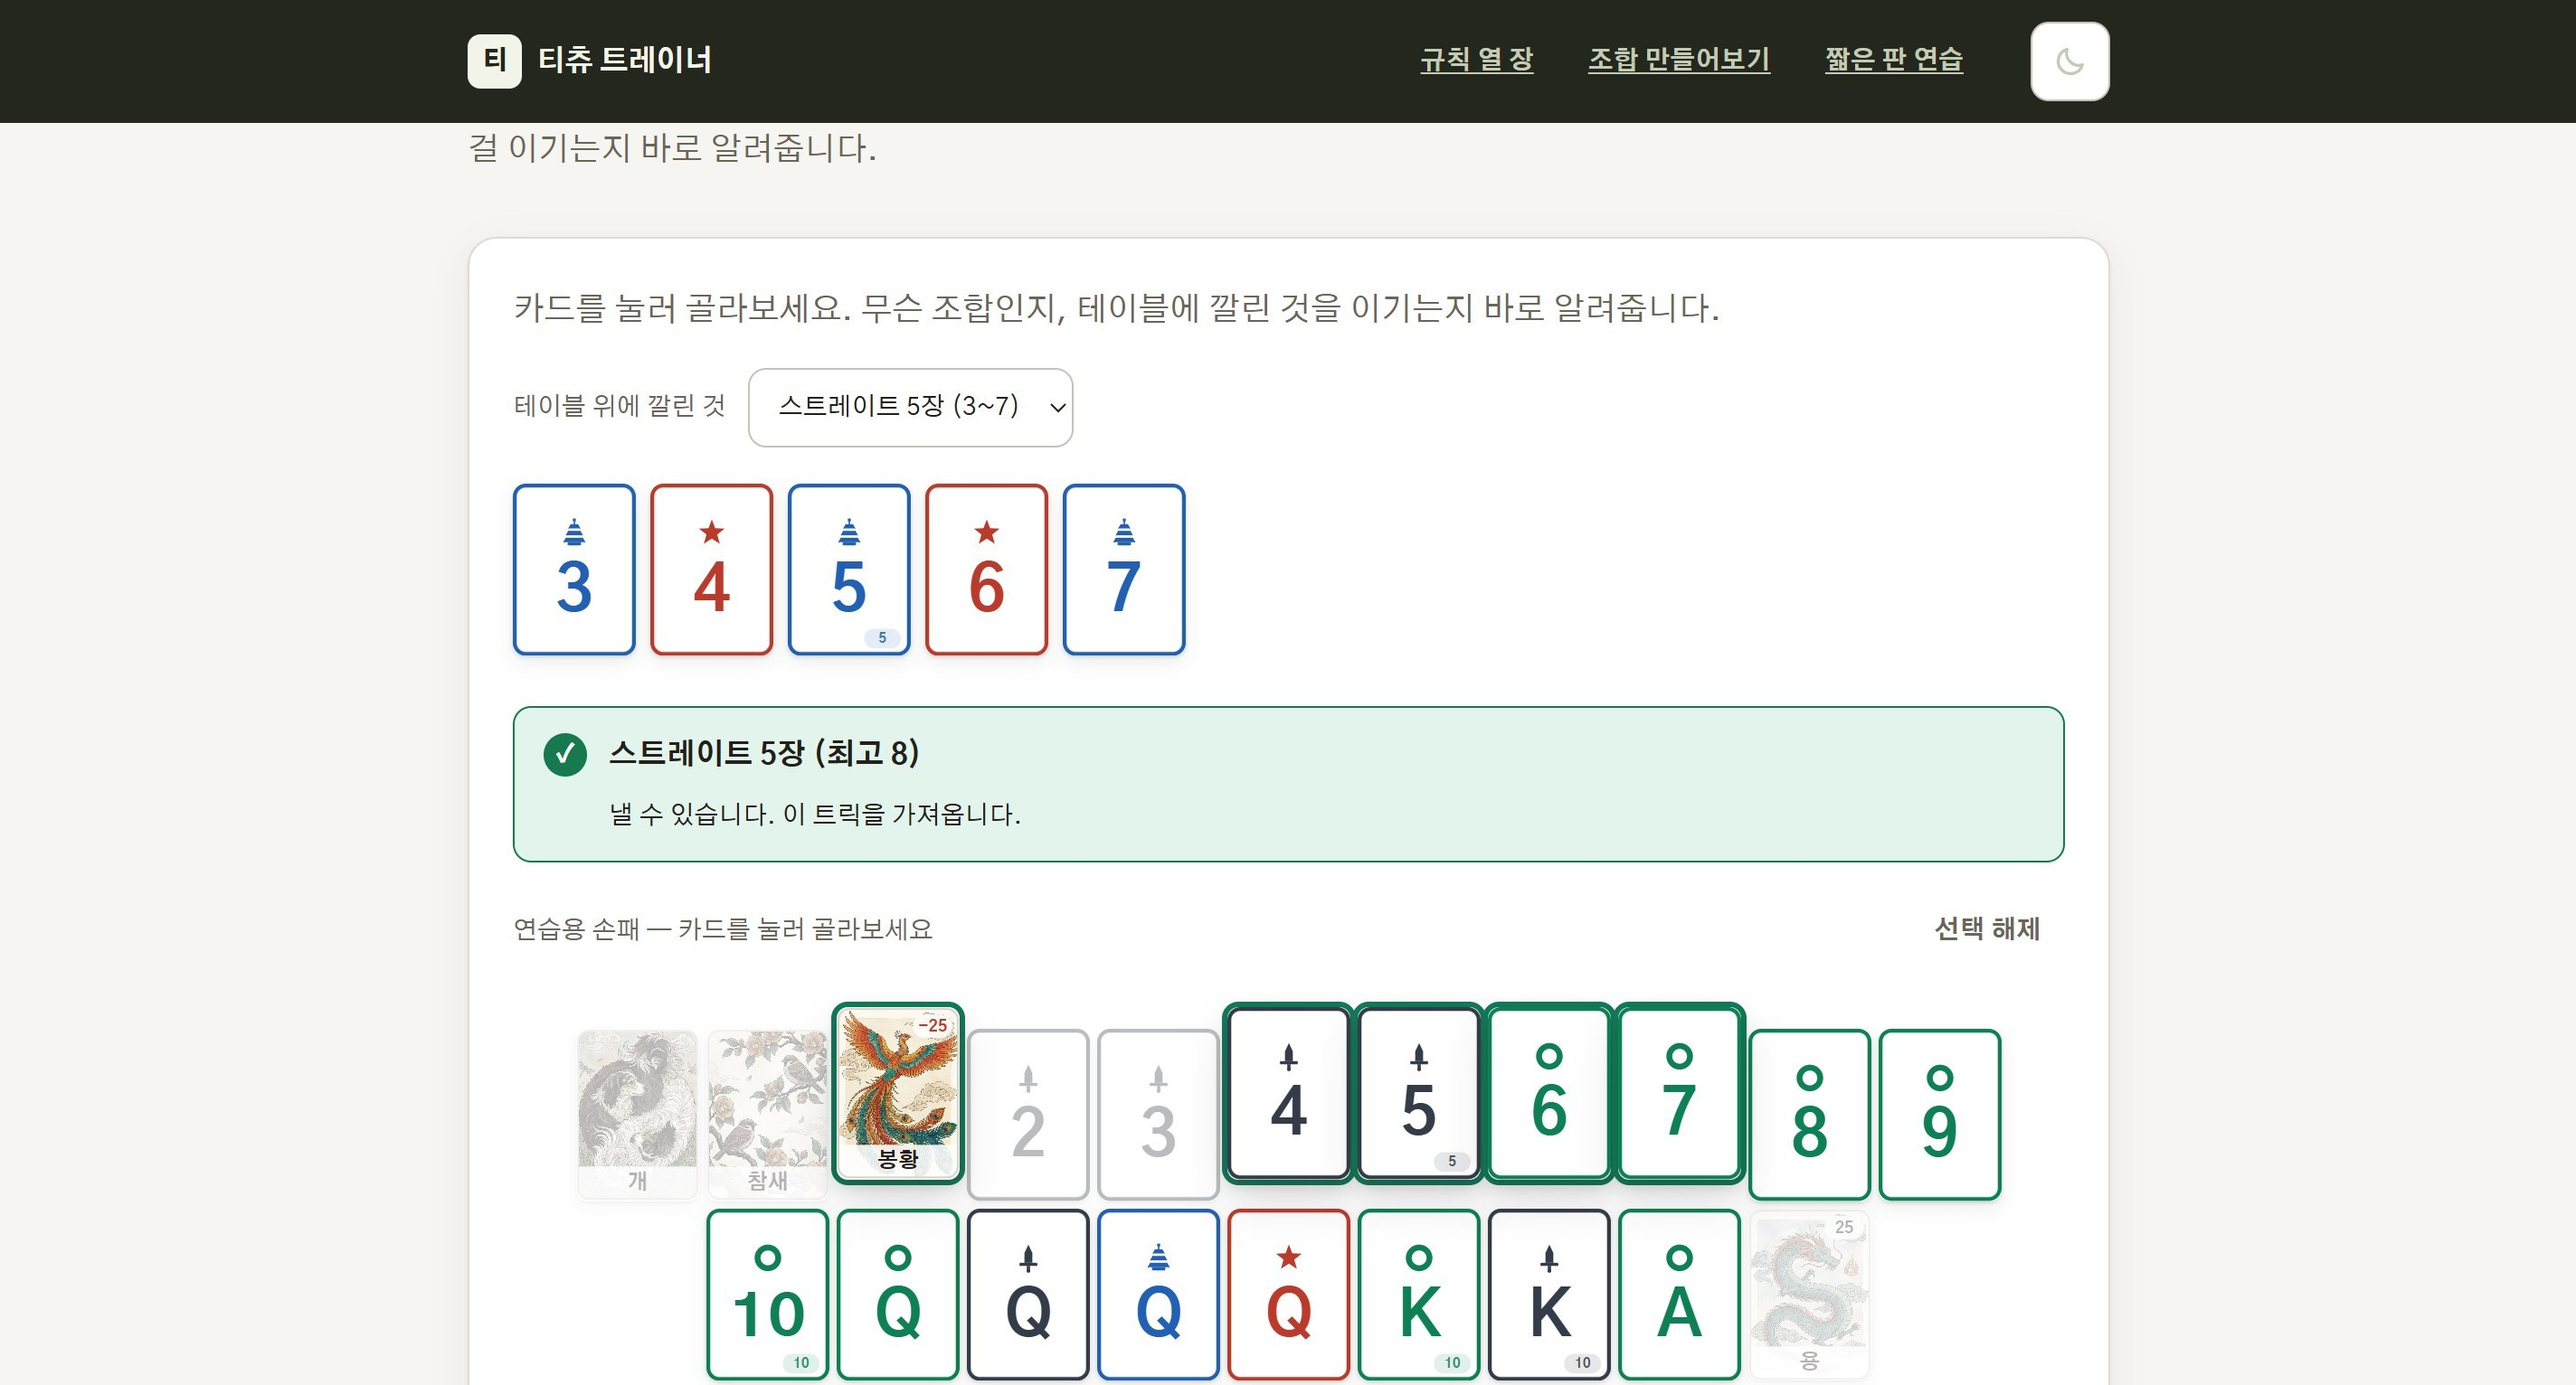
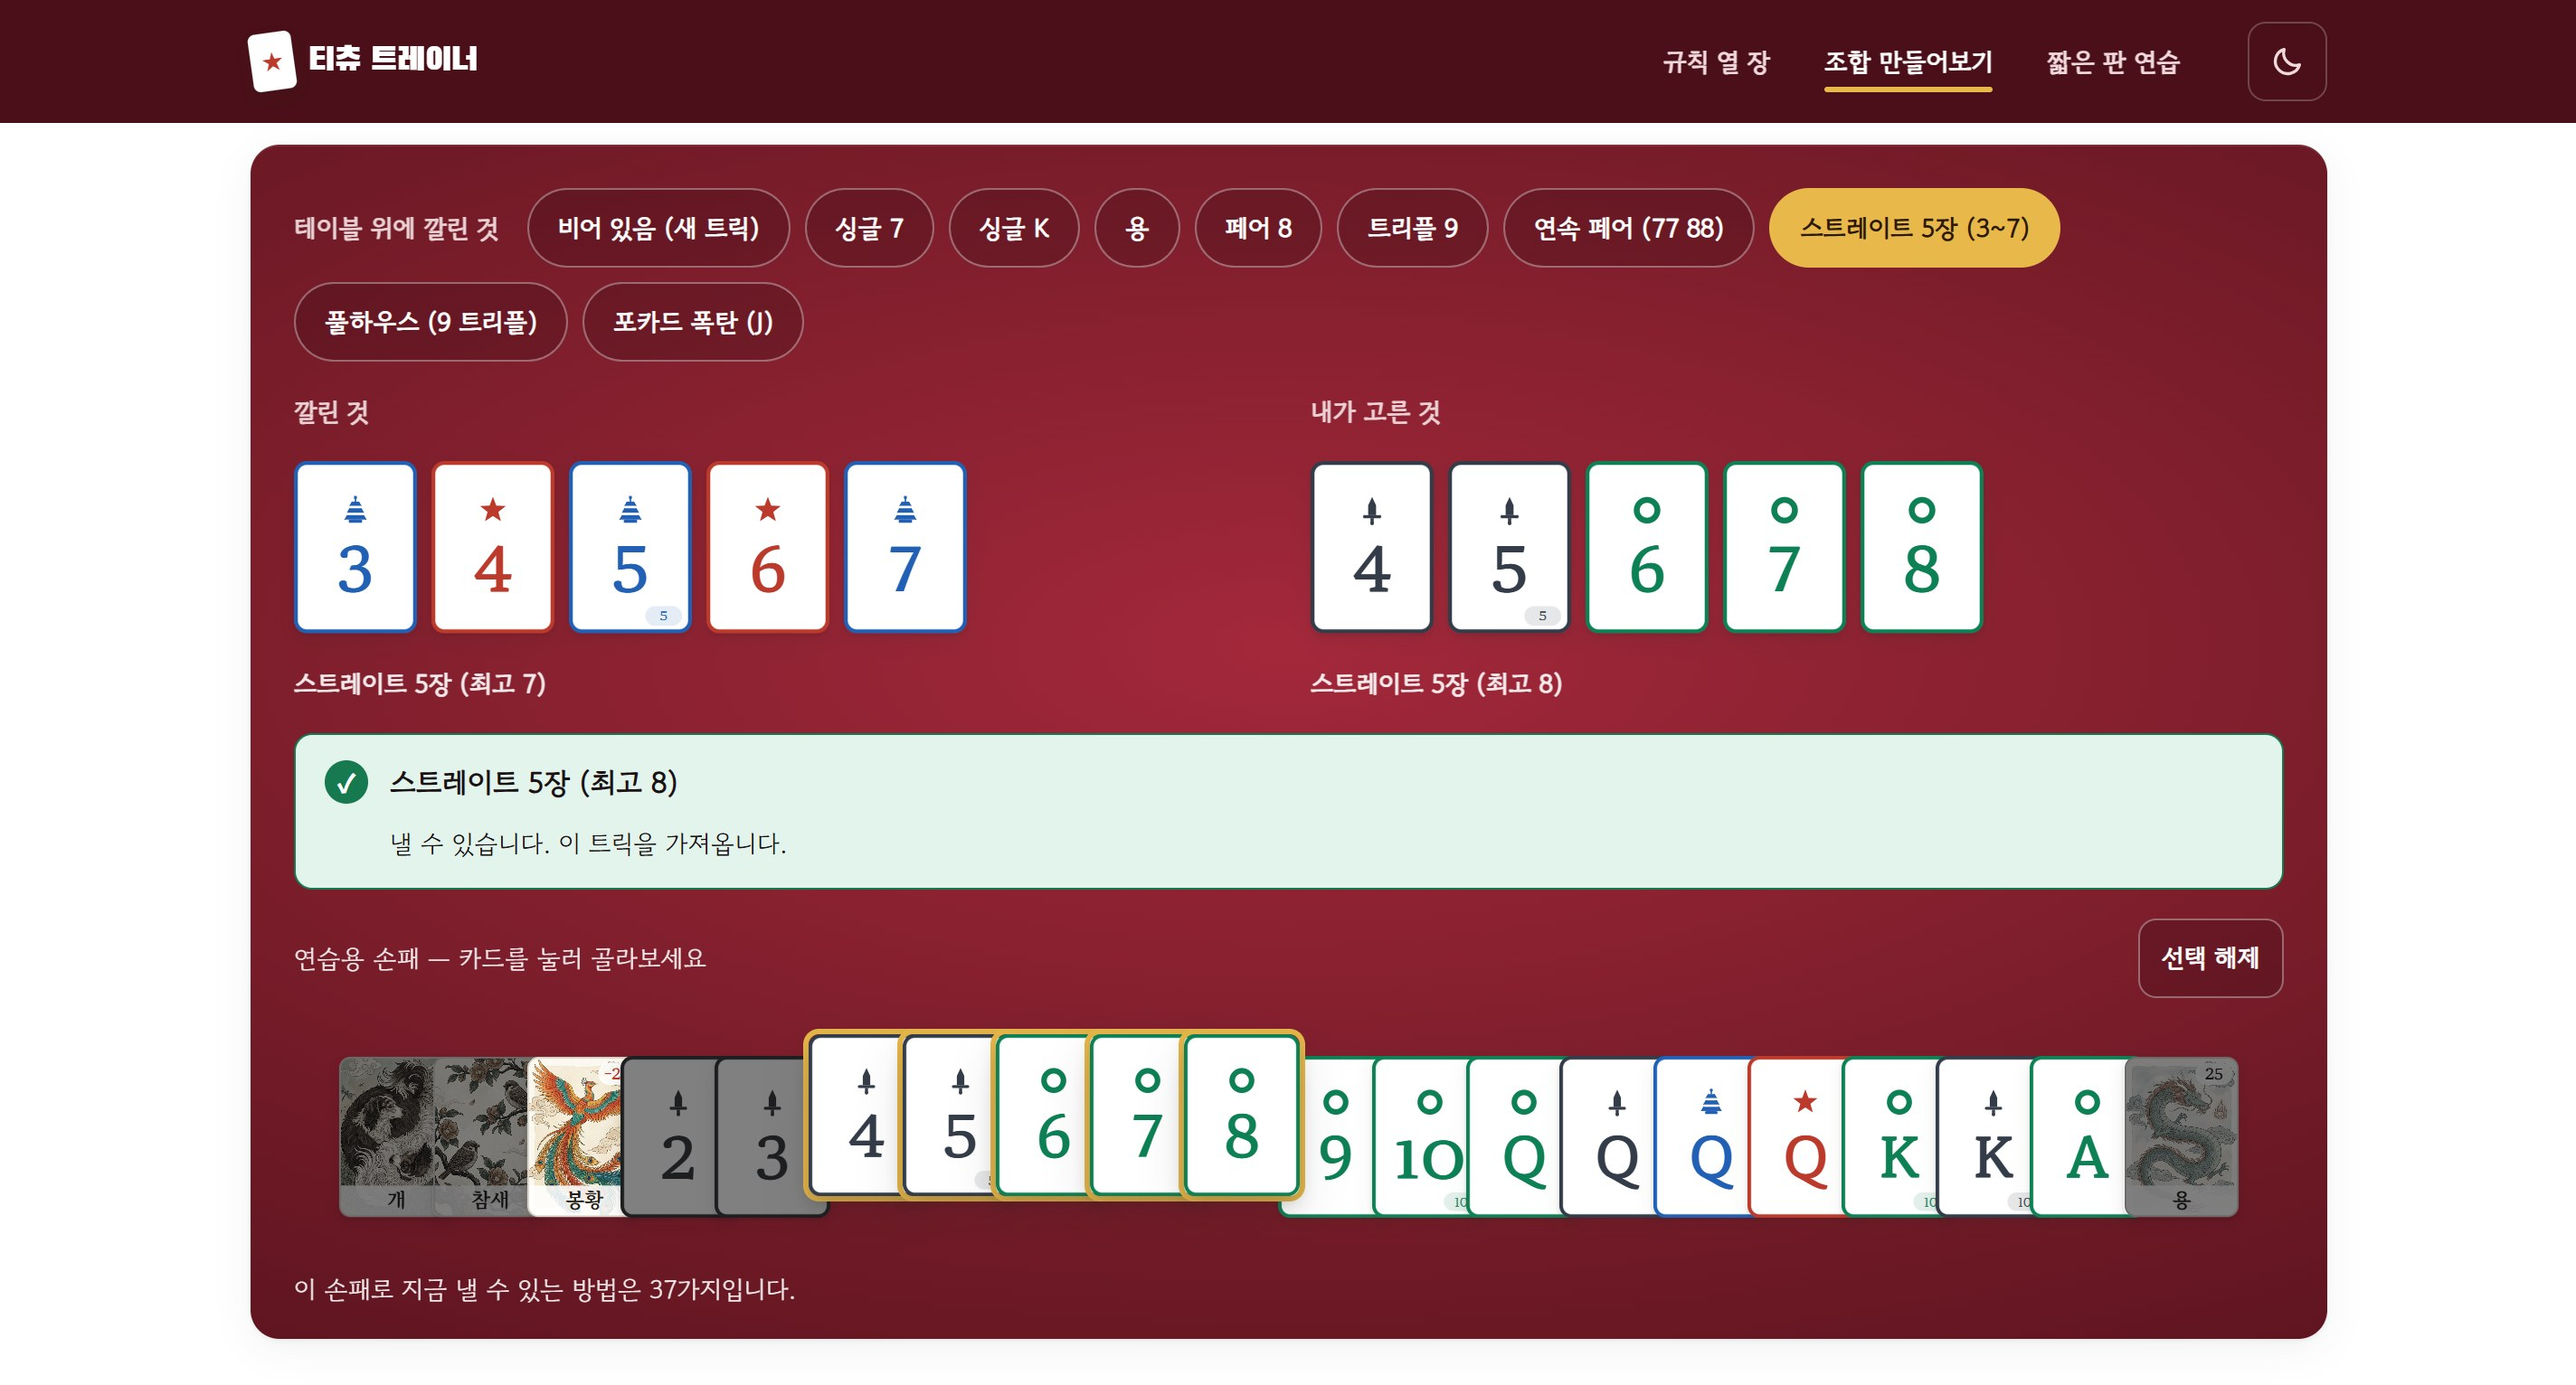
개인 작업 카드 갱신: tichu-trainer 새 화면, 판정·화면 분리를 앞세운 문구, 커밋·테스트 수 재집계

diff --git a/src/config.ts b/src/config.ts
@@ -97,19 +97,19 @@ export const siteConfig = {
   sideProjects: [
     {
       name: "tichu-trainer",
-      description: "보드게임 티츄의 규칙을 직접 카드를 내 보며 익히는 학습 웹입니다. 커밋 33건 모두 제 것입니다.",
+      description: "보드게임 티츄의 규칙을 직접 카드를 내 보며 익히는 학습 웹입니다. 커밋 46건(머지 제외) 모두 제 것입니다.",
       link: "https://github.com/DreamingGenie/tichu-trainer",
       image: "/images/projects/tichu-trainer/sandbox.jpg",
       points: [
-        "외부 라이브러리 없이 테스트 도구까지 직접 만들어, node tests/run.js 한 줄로 84개 테스트가 돕니다",
-        "규칙 판정 코드 11개 파일에 화면·브라우저 코드가 한 번도 나오지 않습니다",
+        "규칙 판정 코드 11개 파일에 화면·브라우저 코드가 한 번도 나오지 않아, 판정만 떼어 85개 테스트로 검사합니다",
+        "테스트 도구까지 직접 만들어 설치할 것이 없습니다. 내려받으면 node tests/run.js 한 줄로 돕니다",
         "해석이 갈리는 규칙은 하나로 정해 근거와 함께 코드에 적었습니다",
       ],
       skills: ["JavaScript", "ES 모듈", "테스트 직접 구현"],
     },
     {
       name: "ServerTimeClicker",
-      description: "초 단위로만 알려 주는 서버 시간을 밀리초 단위로 알아내, 정해 둔 위치를 순서대로 클릭하는 데스크톱 앱입니다. 커밋 9건 모두 제 것입니다.",
+      description: "초 단위로만 알려 주는 서버 시간을 밀리초 단위로 알아내, 정해 둔 위치를 순서대로 클릭하는 데스크톱 앱입니다. 커밋 24건 모두 제 것입니다.",
       link: "https://github.com/DreamingGenie/ServerTimeClicker",
       image: "/images/projects/servertimeclicker/cover.jpg",
       points: [
